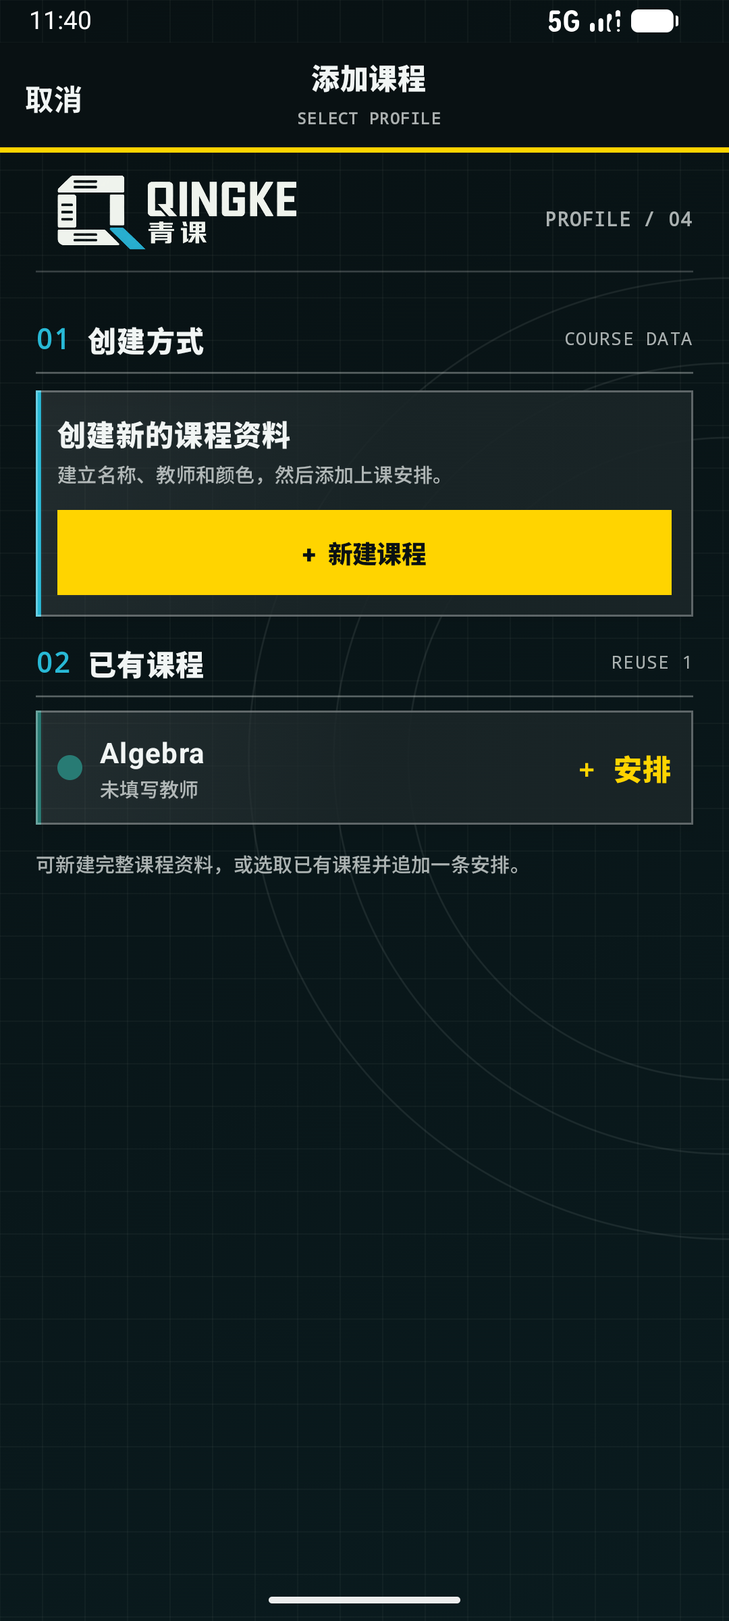
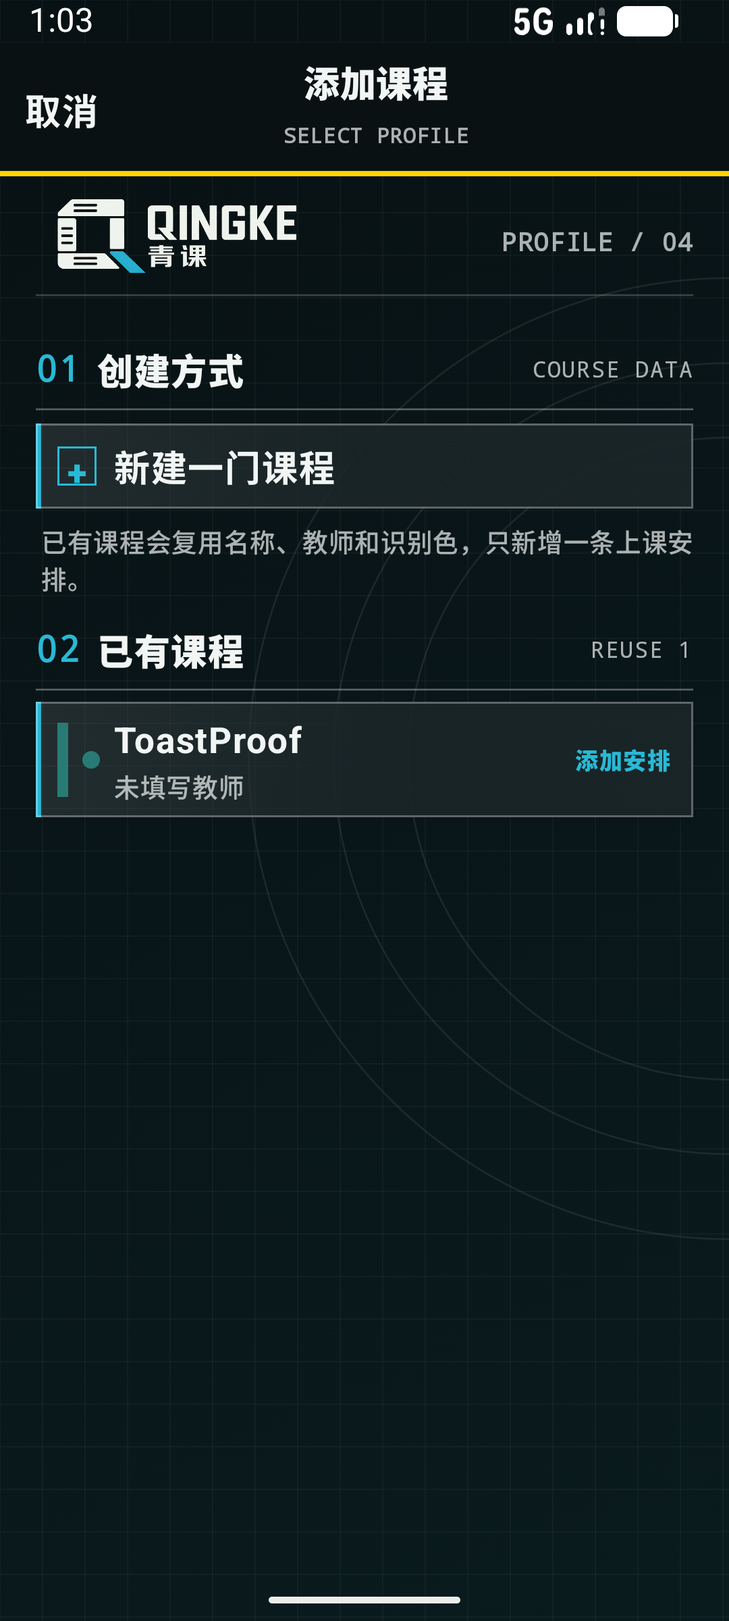
fix(android): align course editor visuals

diff --git a/Android/app/src/main/java/com/qingke/schedule/ui/QingKeApp.kt b/Android/app/src/main/java/com/qingke/schedule/ui/QingKeApp.kt
@@ -26,6 +26,7 @@ import androidx.compose.foundation.layout.padding
 import androidx.compose.foundation.layout.statusBarsPadding
 import androidx.compose.foundation.layout.width
 import androidx.compose.foundation.layout.widthIn
+import androidx.compose.foundation.layout.wrapContentSize
 import androidx.compose.foundation.layout.size
 import androidx.compose.foundation.lazy.LazyColumn
 import androidx.compose.foundation.lazy.items
@@ -233,22 +234,18 @@ fun QingKeAppContent(
             LoadStatus.NOT_LOADED, LoadStatus.LOADING -> LoadingScreen()
             LoadStatus.FAILED -> LoadErrorScreen(state.error.orEmpty(), actions.retryLoad)
             LoadStatus.READY -> if (state.needsOnboarding) form?.let { OnboardingScreen(it, state.isSaving, actions) } ?: LoadingScreen()
-            else MainShell(state, selectedTab, currentTime, actions)
+            else MainShell(state, selectedTab, currentTime, actions, courseSuccess = if (editor == null) courseSuccess else null, consumeCourseSuccess = consumeCourseSuccess)
         }
         editor?.let { CourseEditorOverlay(it, state.data.semester, state.data.courses, dark, actions) }
-        if (editor == null) courseSuccess?.let { CourseSuccessNotice(it, dark, consumeCourseSuccess) }
         state.error?.let { message -> if (state.loadStatus == LoadStatus.READY) ErrorDialog(message, actions.dismissError) }
     }
 }
 
 @Composable private fun CourseSuccessNotice(message: String, dark: Boolean, consume: () -> Unit) {
     LaunchedEffect(message) { delay(2_600); consume() }
-    // Keep the non-blocking notice above both the terminal tab bar and TODAY's floating ADD.
-    Box(Modifier.fillMaxSize().padding(start = 20.dp, end = 20.dp, top = 104.dp, bottom = 180.dp), contentAlignment = Alignment.BottomCenter) {
-        Row(Modifier.fillMaxWidth().terminalPanel(dark, QingKeCyan).padding(12.dp).testTag("course-success-notice")) {
-            Text("OK", color = QingKeCyan, fontFamily = FontFamily.Monospace, fontWeight = FontWeight.Black)
-            Spacer(Modifier.width(10.dp)); Text(message, color = terminalText(dark), fontWeight = FontWeight.Bold)
-        }
+    Row(Modifier.fillMaxWidth().terminalPanel(dark, QingKeCyan).padding(12.dp).testTag("course-success-notice")) {
+        Text("OK", color = QingKeCyan, fontFamily = FontFamily.Monospace, fontWeight = FontWeight.Black)
+        Spacer(Modifier.width(10.dp)); Text(message, color = terminalText(dark), fontWeight = FontWeight.Bold)
     }
 }
 
@@ -324,17 +321,28 @@ fun QingKeAppContent(
     }
 }
 
-@Composable private fun MainShell(state: ScheduleState, selected: MainTab, currentTime: LocalDateTime, actions: QingKeAppActions) {
+@Composable private fun MainShell(state: ScheduleState, selected: MainTab, currentTime: LocalDateTime, actions: QingKeAppActions, courseSuccess: String? = null, consumeCourseSuccess: () -> Unit = {}) {
     val dark = state.preferences.appearanceMode == AppearanceMode.DARK ||
         (state.preferences.appearanceMode == AppearanceMode.SYSTEM && isSystemInDarkTheme())
     Box(Modifier.fillMaxSize().testTag("main-shell")) {
         TerminalBackdrop(dark)
         when (selected) {
-            MainTab.TODAY -> TodayScheduleScreen(state, currentTime, actions.refreshTime, actions.openAddCourse, actions.openCourseAt, dark, Modifier.fillMaxSize().padding(bottom = 82.dp))
+            MainTab.TODAY -> TodayScheduleScreen(state, currentTime, actions.refreshTime, actions.openCourseAt, dark, Modifier.fillMaxSize().padding(bottom = 82.dp))
             MainTab.SCHEDULE -> ShellPlaceholder("课表（壳层）", dark, Modifier.fillMaxSize().padding(bottom = 82.dp))
             MainTab.SETTINGS -> ShellPlaceholder("设置（壳层）", dark, Modifier.fillMaxSize().padding(bottom = 82.dp))
         }
-        TerminalTabBar(selected, actions.selectTab, dark, Modifier.align(Alignment.BottomCenter))
+        Column(Modifier.align(Alignment.BottomCenter).fillMaxWidth()) {
+            if (selected == MainTab.TODAY) {
+                Box(Modifier.fillMaxWidth().padding(horizontal = 20.dp), contentAlignment = Alignment.CenterEnd) {
+                    TodayAddButton(actions.openAddCourse)
+                }
+                Spacer(Modifier.height(8.dp))
+            }
+            courseSuccess?.let {
+                Box(Modifier.fillMaxWidth().padding(horizontal = 20.dp)) { CourseSuccessNotice(it, dark, consumeCourseSuccess) }
+            }
+            Box(Modifier.fillMaxWidth().testTag("terminal-tab-bar")) { TerminalTabBar(selected, actions.selectTab, dark) }
+        }
     }
 }
 
@@ -393,7 +401,7 @@ fun QingKeAppContent(
 ) { Text(text, color = terminalText(dark), style = MaterialTheme.typography.headlineMedium, fontWeight = FontWeight.Black) }
 
 @OptIn(ExperimentalMaterial3Api::class)
-@Composable private fun TodayScheduleScreen(state: ScheduleState, now: LocalDateTime, refresh: () -> Unit, addCourse: () -> Unit, openCourseAt: (Int) -> Unit, dark: Boolean, modifier: Modifier = Modifier) {
+@Composable private fun TodayScheduleScreen(state: ScheduleState, now: LocalDateTime, refresh: () -> Unit, openCourseAt: (Int) -> Unit, dark: Boolean, modifier: Modifier = Modifier) {
     val semester = state.data.semester ?: return
     val presentation = TodaySchedulePresentation.create(semester, state.data.courses, now, state.preferences.academicCalendar)
     var refreshing by remember { mutableStateOf(false) }
@@ -429,9 +437,10 @@ fun QingKeAppContent(
             }
             }
         }
-        Button(addCourse, Modifier.align(Alignment.BottomEnd).padding(20.dp).size(54.dp).drawBehind { val inset = 3.dp.toPx(); val fold = 12.dp.toPx(); drawRect(InverseSurface.copy(alpha = .78f), topLeft = androidx.compose.ui.geometry.Offset(inset, inset), size = androidx.compose.ui.geometry.Size(size.width - inset * 2, size.height - inset * 2), style = Stroke(1.dp.toPx())); val path = androidx.compose.ui.graphics.Path().apply { moveTo(size.width - inset - fold, inset); lineTo(size.width - inset, inset); lineTo(size.width - inset, inset + fold); close() }; drawPath(path, InverseSurface.copy(alpha = .86f)); drawLine(InverseSurface.copy(alpha = .78f), androidx.compose.ui.geometry.Offset(size.width - inset - fold, inset), androidx.compose.ui.geometry.Offset(size.width - inset, inset + fold), 1.dp.toPx()) }.testTag("today-add-course"), shape = TerminalShape, contentPadding = androidx.compose.foundation.layout.PaddingValues(0.dp), colors = ButtonDefaults.buttonColors(containerColor = SignalYellow, contentColor = InverseSurface)) { Column(horizontalAlignment = Alignment.CenterHorizontally) { Text("+", fontSize = 20.sp, lineHeight = 19.sp, fontWeight = FontWeight.Black); Text("ADD", fontFamily = FontFamily.Monospace, fontSize = 10.sp, fontWeight = FontWeight.Black) } }
     }
 }
+
+@Composable private fun TodayAddButton(addCourse: () -> Unit) = Button(addCourse, Modifier.size(54.dp).drawBehind { val inset = 3.dp.toPx(); val fold = 12.dp.toPx(); drawRect(InverseSurface.copy(alpha = .78f), topLeft = androidx.compose.ui.geometry.Offset(inset, inset), size = androidx.compose.ui.geometry.Size(size.width - inset * 2, size.height - inset * 2), style = Stroke(1.dp.toPx())); val path = androidx.compose.ui.graphics.Path().apply { moveTo(size.width - inset - fold, inset); lineTo(size.width - inset, inset); lineTo(size.width - inset, inset + fold); close() }; drawPath(path, InverseSurface.copy(alpha = .86f)); drawLine(InverseSurface.copy(alpha = .78f), androidx.compose.ui.geometry.Offset(size.width - inset - fold, inset), androidx.compose.ui.geometry.Offset(size.width - inset, inset + fold), 1.dp.toPx()) }.testTag("today-add-course"), shape = TerminalShape, contentPadding = androidx.compose.foundation.layout.PaddingValues(0.dp), colors = ButtonDefaults.buttonColors(containerColor = SignalYellow, contentColor = InverseSurface)) { Column(horizontalAlignment = Alignment.CenterHorizontally) { Text("+", fontSize = 20.sp, lineHeight = 19.sp, fontWeight = FontWeight.Black); Text("ADD", fontFamily = FontFamily.Monospace, fontSize = 10.sp, fontWeight = FontWeight.Black) } }
 
 @Composable private fun BrandHeader(dark: Boolean, code: String = "LOCAL / 01", tag: String = "today-brand-header") = Row(
     Modifier.fillMaxWidth().padding(horizontal = 20.dp).padding(top = 8.dp, bottom = 12.dp).border(width = 0.dp, color = Color.Transparent)
@@ -518,12 +527,25 @@ private fun courseDetails(occurrence: CourseOccurrence): String = listOf(
                 BrandHeader(dark, "PROFILE / 04", "course-choice-brand-header")
                 Column(Modifier.weight(1f).padding(horizontal = 20.dp).verticalScroll(rememberScrollState())) {
                 TerminalSectionHeader("01", "创建方式", "COURSE DATA", dark, "course-choice-create-section")
-                Column(Modifier.fillMaxWidth().padding(top = 10.dp).terminalPanel(dark, QingKeCyan).padding(12.dp).testTag("course-choice-create-panel")) { Text("创建新的课程资料", color = terminalText(dark), fontWeight = FontWeight.Black); Text("建立名称、教师和颜色，然后添加上课安排。", color = terminalSecondary(dark), style = MaterialTheme.typography.labelSmall, modifier = Modifier.padding(top = 3.dp)); Button(actions.openNewCourse, Modifier.fillMaxWidth().padding(top = 12.dp).heightIn(min = 48.dp).testTag("course-create-new"), shape = TerminalShape, colors = ButtonDefaults.buttonColors(containerColor = SignalYellow, contentColor = InverseSurface)) { Text("+  新建课程", fontWeight = FontWeight.Black) } }
+                Column(Modifier.fillMaxWidth().padding(top = 8.dp)) {
+                    Box(Modifier.fillMaxWidth().terminalPanel(dark, QingKeCyan).clickable { actions.openNewCourse() }.testTag("course-create-new").semantics { contentDescription = "新建一门课程" }) {
+                        Row(Modifier.fillMaxWidth().heightIn(min = 48.dp).padding(horizontal = 12.dp).testTag("course-choice-create-panel"), verticalAlignment = Alignment.CenterVertically) {
+                            Box(Modifier.size(22.dp).border(1.dp, QingKeCyan, TerminalShape), contentAlignment = Alignment.Center) { Text("+", color = QingKeCyan, fontWeight = FontWeight.Black) }
+                            Text("新建一门课程", color = terminalText(dark), fontWeight = FontWeight.Bold, modifier = Modifier.padding(start = 10.dp))
+                        }
+                    }
+                    Text("已有课程会复用名称、教师和识别色，只新增一条上课安排。", color = terminalSecondary(dark), style = MaterialTheme.typography.labelSmall, modifier = Modifier.padding(start = 3.dp, top = 8.dp).testTag("course-choice-footer"))
+                }
                 TerminalSectionHeader("02", "已有课程", "REUSE ${courses.size}", dark, "course-choice-reuse-section")
                 courses.withIndex().sortedWith(compareBy<IndexedValue<com.qingke.schedule.domain.Course>> { it.value.name.trim() }.thenBy { it.index }).forEach { entry ->
-                    Row(Modifier.fillMaxWidth().padding(top = 8.dp).terminalPanel(dark, courseColor(entry.value.color)).clickable { actions.appendCourseAt(entry.index) }.padding(12.dp).testTag("course-append-${entry.index}").semantics { contentDescription = "${entry.value.name}，追加安排，来源 ${entry.index + 1}" }, verticalAlignment = Alignment.CenterVertically) { Box(Modifier.size(14.dp).background(courseColor(entry.value.color), androidx.compose.foundation.shape.CircleShape)); Column(Modifier.weight(1f).padding(start = 10.dp)) { Text(entry.value.name.ifBlank { "未命名课程" }, color = terminalText(dark), fontWeight = FontWeight.Bold); Text(entry.value.teacher.ifBlank { "未填写教师" }, color = terminalSecondary(dark), style = MaterialTheme.typography.labelSmall) }; Text("+ 安排", color = SignalYellow, fontFamily = FontFamily.Monospace, fontWeight = FontWeight.Black) }
+                    Row(Modifier.fillMaxWidth().padding(top = 7.dp).heightIn(min = 48.dp).terminalPanel(dark, QingKeCyan).clickable { actions.appendCourseAt(entry.index) }.padding(horizontal = 12.dp, vertical = 7.dp).testTag("course-append-${entry.index}").semantics { contentDescription = "为 ${entry.value.name} 添加上课安排，来源 ${entry.index + 1}" }, verticalAlignment = Alignment.CenterVertically) {
+                        Box(Modifier.width(6.dp).height(42.dp).background(courseColor(entry.value.color), TerminalShape).testTag("course-append-rail-${entry.index}"))
+                        Box(Modifier.padding(start = 8.dp).size(10.dp).background(courseColor(entry.value.color), androidx.compose.foundation.shape.CircleShape))
+                        Column(Modifier.weight(1f).padding(start = 8.dp)) { Text(entry.value.name.ifBlank { "未命名课程" }, color = terminalText(dark), fontWeight = FontWeight.Bold); Text(entry.value.teacher.ifBlank { "未填写教师" }, color = terminalSecondary(dark), style = MaterialTheme.typography.labelSmall) }
+                        Text("添加安排", color = QingKeCyan, fontFamily = FontFamily.Monospace, fontSize = 10.sp, fontWeight = FontWeight.Black)
+                    }
                 }
-                Text("可新建完整课程资料，或选取已有课程并追加一条安排。", color = terminalSecondary(dark), style = MaterialTheme.typography.labelSmall, modifier = Modifier.padding(vertical = 14.dp).testTag("course-choice-footer"))
+                Spacer(Modifier.height(14.dp))
                 }
             }
         } else {
@@ -533,18 +555,18 @@ private fun courseDetails(occurrence: CourseOccurrence): String = listOf(
                 EditorHeader(if (editor.isAppend) "添加上课安排" else if (editor.mode == CourseEditorMode.EDIT) "编辑课程" else "添加课程", if (editor.isAppend) "NEW SCHEDULE" else if (editor.mode == CourseEditorMode.EDIT) "COURSE PROFILE" else "NEW COURSE", actions.closeCourseEditor, actions.saveCourse, editor.isInFlight, dark)
                 BrandHeader(dark, "${if (editor.isAppend) "APPEND" else if (editor.mode == CourseEditorMode.EDIT) "EDIT" else "CREATE"} / 04", "course-editor-brand-header")
                 Column(Modifier.weight(1f).verticalScroll(rememberScrollState()).padding(horizontal = 20.dp)) {
-                TerminalSectionHeader("01", if (editor.isAppend) "沿用课程资料" else "课程资料", if (editor.isAppend) "REUSED PROFILE" else "COURSE PROFILE", dark, "course-info-section")
+                TerminalSectionHeader("01", if (editor.isAppend) "沿用课程资料" else "课程信息", if (editor.isAppend) "REUSED PROFILE" else "COURSE PROFILE", dark, "course-info-section")
                 if (editor.isAppend) {
-                    Column(Modifier.fillMaxWidth().padding(top = 12.dp).terminalPanel(dark, QingKeCyan).padding(12.dp).testTag("course-append-readonly")) {
-                        Text("复用课程资料", color = terminalText(dark), fontWeight = FontWeight.Black)
-                        Text(editor.name, color = terminalText(dark), style = MaterialTheme.typography.titleMedium, modifier = Modifier.testTag("course-append-name"))
-                        if (editor.teacher.isNotBlank()) Text(editor.teacher, color = terminalSecondary(dark), modifier = Modifier.testTag("course-append-teacher"))
-                        Row(verticalAlignment = Alignment.CenterVertically) { Box(Modifier.size(16.dp).background(courseColor(editor.color), TerminalShape)); Spacer(Modifier.width(8.dp)); Text(editor.color, color = terminalSecondary(dark), fontFamily = FontFamily.Monospace) }
-                        Text("课程名称、教师和识别色沿用已有课程；这里只新增上课安排。", color = terminalSecondary(dark), style = MaterialTheme.typography.labelSmall, modifier = Modifier.padding(top = 10.dp).testTag("course-append-footer"))
+                    Column(Modifier.fillMaxWidth().padding(top = 8.dp)) {
+                        Row(Modifier.fillMaxWidth().terminalPanel(dark, QingKeCyan).padding(horizontal = 12.dp, vertical = 8.dp).testTag("course-append-readonly"), verticalAlignment = Alignment.CenterVertically) {
+                            Box(Modifier.width(6.dp).height(42.dp).background(courseColor(editor.color), TerminalShape))
+                            Column(Modifier.weight(1f).padding(start = 10.dp)) { Text(editor.name, color = terminalText(dark), style = MaterialTheme.typography.titleMedium, modifier = Modifier.testTag("course-append-name")); Text(editor.teacher.ifBlank { "未填写教师" }, color = terminalSecondary(dark), style = MaterialTheme.typography.labelSmall, modifier = Modifier.testTag("course-append-teacher")) }
+                        }
+                        Text("课程名称、教师和识别色沿用已有课程；这里只新增上课安排。", color = terminalSecondary(dark), style = MaterialTheme.typography.labelSmall, modifier = Modifier.padding(start = 3.dp, top = 8.dp).testTag("course-append-footer"))
                     }
                 } else {
                     Column(Modifier.fillMaxWidth().padding(top = 10.dp).terminalPanel(dark, QingKeCyan).padding(12.dp).testTag("course-info-form-section")) {
-                    PlainEditorTextField("课程名称", editor.name, actions.updateCourseName, "course-name", !editor.isInFlight, dark); Box(Modifier.fillMaxWidth().height(1.dp).background(terminalBorder(dark))); PlainEditorTextField("教师（可选）", editor.teacher, actions.updateCourseTeacher, "course-teacher", !editor.isInFlight, dark); Box(Modifier.fillMaxWidth().height(1.dp).background(terminalBorder(dark)))
+                    PlainEditorTextField("课程名称", editor.name, actions.updateCourseName, "course-name", !editor.isInFlight, dark); Box(Modifier.fillMaxWidth().height(1.dp).background(terminalBorder(dark))); PlainEditorTextField("教师（选填）", editor.teacher, actions.updateCourseTeacher, "course-teacher", !editor.isInFlight, dark); Box(Modifier.fillMaxWidth().height(1.dp).background(terminalBorder(dark)))
                     Text("课程颜色", Modifier.padding(top = 12.dp), color = terminalText(dark), fontWeight = FontWeight.Bold)
                     Row(Modifier.fillMaxWidth(), horizontalArrangement = Arrangement.spacedBy(6.dp)) {
                         listOf("#287B74", "#D96952", "#536FAF", "#9A6AAF", "#B87928", "#46835A").forEach { color ->
@@ -552,12 +574,13 @@ private fun courseDetails(occurrence: CourseOccurrence): String = listOf(
                             Box(Modifier.weight(1f).height(38.dp).background(Color.Transparent).clickable(enabled = !editor.isInFlight) { actions.updateCourseColor(color) }.semantics { contentDescription = "预设颜色 $color，${if (selected) "已选中" else "未选中"}" }.testTag("course-color-$color"), contentAlignment = Alignment.Center) { Box(Modifier.size(27.dp).background(courseColor(color), androidx.compose.foundation.shape.CircleShape).border(if (selected) 3.dp else 1.dp, if (selected) SignalYellow else Color.White.copy(alpha = .65f), androidx.compose.foundation.shape.CircleShape).testTag("course-color-swatch-$color"), contentAlignment = Alignment.Center) { if (selected) Text("✓", color = Color.White, fontWeight = FontWeight.Black, fontSize = 14.sp) } }
                         }
                     }
-                    OutlinedButton(actions.showColorDialog, Modifier.fillMaxWidth().padding(top = 8.dp).heightIn(min = 48.dp).testTag("course-custom-color"), enabled = !editor.isInFlight, shape = TerminalShape) { Text("自定义颜色") }
-                    Text("当前色值  ${editor.color}", color = terminalSecondary(dark), fontFamily = FontFamily.Monospace, modifier = Modifier.padding(top = 8.dp).testTag("course-current-color"))
+                    Row(Modifier.fillMaxWidth().heightIn(min = 48.dp).clickable(enabled = !editor.isInFlight, onClick = actions.showColorDialog).testTag("course-custom-color").semantics { contentDescription = "自定义颜色，当前 ${editor.color}" }, verticalAlignment = Alignment.CenterVertically) { Text("自定义颜色", color = terminalText(dark), fontWeight = FontWeight.Bold, modifier = Modifier.weight(1f)); Box(Modifier.size(22.dp).background(courseColor(editor.color), androidx.compose.foundation.shape.CircleShape).border(1.dp, terminalBorder(dark), androidx.compose.foundation.shape.CircleShape).testTag("course-custom-color-swatch")); Text("›", color = QingKeCyan, fontSize = 20.sp, modifier = Modifier.padding(start = 9.dp)) }
+                    Text("当前色值  ${editor.color.uppercase()}", color = terminalSecondary(dark), fontFamily = FontFamily.Monospace, fontSize = 10.sp, modifier = Modifier.padding(top = 2.dp).testTag("course-current-color"))
                     }
                 }
                 editor.visibleSchedules.forEachIndexed { visibleIndex, schedule ->
-                    TerminalSectionHeader("%02d".format(visibleIndex + 2), "上课安排 ${visibleIndex + 1}", "SCHEDULE", dark, "course-schedule-header-${schedule.id}")
+                    val scheduleNumber = editor.originalScheduleCount + visibleIndex + 1
+                    TerminalSectionHeader("%02d".format(scheduleNumber + 1), "上课安排 $scheduleNumber", "SCHEDULE", dark, "course-schedule-header-${schedule.id}")
                     Column(Modifier.fillMaxWidth().padding(top = 7.dp).terminalPanel(dark, QingKeCyan).padding(12.dp).testTag("course-schedule-${schedule.id}")) {
                         CompactPicker("星期", weekdayName(schedule.dayOfWeek), schedule.dayOfWeek, 1..7, { weekdayName(it) }, { actions.updateCourseDay(schedule.id, it) }, "course-day-${schedule.id}", dark, !editor.isInFlight)
                         CompactPicker("开始节次", periodDescription(semester, schedule.startPeriod, true), schedule.startPeriod, 1..periodMaximum, { periodDescription(semester, it, true) }, { actions.updateCourseStartPeriod(schedule.id, it) }, "course-start-period-${schedule.id}", dark, !editor.isInFlight)
@@ -566,7 +589,7 @@ private fun courseDetails(occurrence: CourseOccurrence): String = listOf(
                         EditorStepper("结束周", schedule.endWeek, 1, weekMaximum, { actions.updateCourseEndWeek(schedule.id, it) }, "course-end-week-${schedule.id}", dark, !editor.isInFlight)
                         Row(Modifier.fillMaxWidth(), horizontalArrangement = Arrangement.spacedBy(6.dp)) { RepeatRule.entries.forEach { rule -> OutlinedButton({ actions.updateCourseRepeat(schedule.id, rule) }, Modifier.weight(1f).heightIn(min = 40.dp).testTag("course-repeat-${schedule.id}-${rule.name}"), enabled = !editor.isInFlight, shape = TerminalShape, colors = ButtonDefaults.outlinedButtonColors(containerColor = if (schedule.repeatRule == rule) QingKeCyan.copy(alpha = .3f) else Color.Transparent)) { Text(if (rule == RepeatRule.EVERY) "每周" else if (rule == RepeatRule.ODD) "单周" else "双周") } } }
                         OutlinedTextField(schedule.classroom, { actions.updateCourseClassroom(schedule.id, it) }, Modifier.fillMaxWidth().padding(top = 8.dp).testTag("course-classroom-${schedule.id}"), label = { Text("教室（可选）") }, singleLine = true, enabled = !editor.isInFlight, shape = TerminalShape)
-                        if (editor.visibleSchedules.size > 1) OutlinedButton({ actions.removeCourseSchedule(schedule.id) }, Modifier.fillMaxWidth().padding(top = 8.dp).heightIn(min = 44.dp).testTag("course-remove-schedule-${schedule.id}"), enabled = !editor.isInFlight, shape = TerminalShape) { Text("删除此安排") }
+                        if (editor.schedules.size > 1) OutlinedButton({ actions.removeCourseSchedule(schedule.id) }, Modifier.fillMaxWidth().padding(top = 8.dp).heightIn(min = 48.dp).testTag("course-remove-schedule-${schedule.id}"), enabled = !editor.isInFlight, shape = TerminalShape) { Text("删除这个安排", color = Danger) }
                     }
                 }
                 Button(actions.addCourseSchedule, Modifier.fillMaxWidth().padding(top = 12.dp).heightIn(min = 48.dp).testTag("course-add-schedule"), shape = TerminalShape, enabled = !editor.isInFlight, colors = ButtonDefaults.buttonColors(containerColor = SignalYellow, contentColor = InverseSurface)) { Text("+  添加上课安排", fontWeight = FontWeight.Black) }
@@ -592,23 +615,37 @@ private fun courseDetails(occurrence: CourseOccurrence): String = listOf(
     if (save != null) Text(if (saving) "保存中" else "保存", color = SignalYellow, fontWeight = FontWeight.Black, modifier = Modifier.clickable(enabled = !saving, onClick = save).padding(vertical = 12.dp).testTag("course-save-toolbar")) else Spacer(Modifier.width(28.dp))
 }
 
-@Composable private fun TerminalSectionHeader(number: String, title: String, subtitle: String, dark: Boolean, tag: String) = Row(Modifier.fillMaxWidth().padding(top = 14.dp).drawBehind { drawLine(terminalBorder(dark), androidx.compose.ui.geometry.Offset(0f, size.height), androidx.compose.ui.geometry.Offset(size.width, size.height), 1.dp.toPx()) }.padding(bottom = 7.dp).testTag(tag), verticalAlignment = Alignment.CenterVertically) { Text(number, color = QingKeCyan, fontFamily = FontFamily.Monospace, fontWeight = FontWeight.Black); Spacer(Modifier.width(9.dp)); Text(title, color = terminalText(dark), fontWeight = FontWeight.Black); Spacer(Modifier.weight(1f)); Text(subtitle, color = terminalSecondary(dark), fontFamily = FontFamily.Monospace, fontSize = 10.sp) }
+@Composable private fun TerminalSectionHeader(number: String, title: String, subtitle: String, dark: Boolean, tag: String) = Row(Modifier.fillMaxWidth().padding(top = 14.dp).drawBehind { drawLine(terminalBorder(dark), androidx.compose.ui.geometry.Offset(0f, size.height), androidx.compose.ui.geometry.Offset(size.width, size.height), 1.dp.toPx()) }.padding(bottom = 7.dp).testTag(tag), verticalAlignment = Alignment.CenterVertically) { Text(number, color = QingKeCyan, fontFamily = FontFamily.Monospace, fontWeight = FontWeight.Black, modifier = Modifier.testTag("$tag-number")); Spacer(Modifier.width(9.dp)); Text(title, color = terminalText(dark), fontWeight = FontWeight.Black); Spacer(Modifier.weight(1f)); Text(subtitle, color = terminalSecondary(dark), fontFamily = FontFamily.Monospace, fontSize = 10.sp) }
 
-@Composable private fun PlainEditorTextField(label: String, value: String, update: (String) -> Unit, tag: String, enabled: Boolean, dark: Boolean) = Row(Modifier.fillMaxWidth().heightIn(min = 48.dp), verticalAlignment = Alignment.CenterVertically) {
-    Text(label, color = terminalSecondary(dark), modifier = Modifier.width(92.dp), style = MaterialTheme.typography.labelMedium)
-    BasicTextField(value, update, Modifier.weight(1f).testTag(tag), enabled = enabled, singleLine = true, textStyle = androidx.compose.ui.text.TextStyle(color = terminalText(dark), fontWeight = FontWeight.Bold))
-}
+@Composable private fun PlainEditorTextField(label: String, value: String, update: (String) -> Unit, tag: String, enabled: Boolean, dark: Boolean) = BasicTextField(
+    value = value,
+    onValueChange = update,
+    modifier = Modifier.fillMaxWidth().heightIn(min = 48.dp).testTag(tag),
+    enabled = enabled,
+    singleLine = true,
+    textStyle = androidx.compose.ui.text.TextStyle(color = terminalText(dark), fontWeight = FontWeight.Bold),
+    decorationBox = { innerTextField ->
+        Box(Modifier.fillMaxSize(), contentAlignment = Alignment.CenterStart) {
+            if (value.isBlank()) Text(label, color = terminalSecondary(dark), style = MaterialTheme.typography.labelMedium, maxLines = 1, overflow = androidx.compose.ui.text.style.TextOverflow.Ellipsis, modifier = Modifier.testTag("$tag-placeholder"))
+            innerTextField()
+        }
+    },
+)
 
-@Composable private fun EditorStepper(label: String, value: Int, minimum: Int, maximum: Int, update: (Int) -> Unit, tag: String, dark: Boolean, enabled: Boolean) = Row(Modifier.fillMaxWidth().padding(top = 6.dp), verticalAlignment = Alignment.CenterVertically) {
+@Composable private fun EditorStepper(label: String, value: Int, minimum: Int, maximum: Int, update: (Int) -> Unit, tag: String, dark: Boolean, enabled: Boolean) = Row(Modifier.fillMaxWidth().heightIn(min = 48.dp), verticalAlignment = Alignment.CenterVertically) {
     Text("$label：$value", Modifier.weight(1f), color = terminalText(dark))
-    OutlinedButton({ update((value - 1).coerceAtLeast(minimum)) }, Modifier.heightIn(min = 40.dp).testTag("$tag-minus"), enabled = enabled && value > minimum, shape = TerminalShape) { Text("−") }
-    OutlinedButton({ update((value + 1).coerceAtMost(maximum)) }, Modifier.padding(start = 6.dp).heightIn(min = 40.dp).testTag("$tag-plus"), enabled = enabled && value < maximum, shape = TerminalShape) { Text("+") }
+    Text("−", color = QingKeCyan, fontSize = 21.sp, fontWeight = FontWeight.Black, modifier = Modifier.size(48.dp).clickable(enabled = enabled && value > minimum) { update((value - 1).coerceAtLeast(minimum)) }.testTag("$tag-minus").wrapContentSize(Alignment.Center))
+    Text("+", color = QingKeCyan, fontSize = 20.sp, fontWeight = FontWeight.Black, modifier = Modifier.size(48.dp).clickable(enabled = enabled && value < maximum) { update((value + 1).coerceAtMost(maximum)) }.testTag("$tag-plus").wrapContentSize(Alignment.Center))
 }
 
-@Composable private fun CompactPicker(label: String, valueLabel: String, value: Int, choices: IntRange, choiceLabel: (Int) -> String, update: (Int) -> Unit, tag: String, dark: Boolean, enabled: Boolean) = Row(Modifier.fillMaxWidth().padding(top = 7.dp), verticalAlignment = Alignment.CenterVertically) {
+@Composable private fun CompactPicker(label: String, valueLabel: String, value: Int, choices: IntRange, choiceLabel: (Int) -> String, update: (Int) -> Unit, tag: String, dark: Boolean, enabled: Boolean) = Box(Modifier.fillMaxWidth()) {
     var expanded by remember { mutableStateOf(false) }
-    Text(label, color = terminalText(dark), fontWeight = FontWeight.Bold, modifier = Modifier.weight(1f))
-    Box { OutlinedButton({ expanded = true }, Modifier.heightIn(min = 38.dp).testTag(tag), enabled = enabled, shape = TerminalShape) { Text(valueLabel, fontFamily = FontFamily.Monospace, fontSize = 11.sp); Spacer(Modifier.width(7.dp)); Text("⌄", fontWeight = FontWeight.Black) }; DropdownMenu(expanded, { expanded = false }, modifier = Modifier.testTag("$tag-menu"), shape = TerminalShape) { choices.forEach { choice -> DropdownMenuItem({ Text(choiceLabel(choice)) }, { update(choice); expanded = false }, modifier = Modifier.testTag("$tag-option-$choice")) } } }
+    Row(Modifier.fillMaxWidth().heightIn(min = 48.dp).clickable(enabled = enabled) { expanded = true }.testTag(tag).semantics { contentDescription = "$label：$valueLabel" }, verticalAlignment = Alignment.CenterVertically) {
+        Text(valueLabel, color = QingKeCyan, fontFamily = FontFamily.Monospace, fontSize = 11.sp, fontWeight = FontWeight.Bold, modifier = Modifier.weight(1f).testTag("$tag-value"))
+        Text("⌄", color = QingKeCyan, fontWeight = FontWeight.Black, modifier = Modifier.padding(start = 7.dp))
+    }
+    Box(Modifier.align(Alignment.BottomCenter).fillMaxWidth().height(1.dp).background(terminalBorder(dark)))
+    DropdownMenu(expanded, { expanded = false }, modifier = Modifier.testTag("$tag-menu"), shape = TerminalShape) { choices.forEach { choice -> DropdownMenuItem({ Text(choiceLabel(choice)) }, { update(choice); expanded = false }, modifier = Modifier.testTag("$tag-option-$choice")) } }
 }
 
 @Composable private fun CourseColorDialog(editor: CourseEditorState, dark: Boolean, actions: QingKeAppActions) {
@@ -631,7 +668,7 @@ private fun courseDetails(occurrence: CourseOccurrence): String = listOf(
 private fun weekdayName(value: Int) = listOf("星期一", "星期二", "星期三", "星期四", "星期五", "星期六", "星期日").getOrElse(value - 1) { "星期" }
 private fun periodDescription(semester: com.qingke.schedule.domain.Semester?, number: Int, start: Boolean): String {
     val period = semester?.periods?.firstOrNull { it.number == number }
-    return "第 $number 节${period?.let { "（${if (start) it.startTime else it.endTime}）" } ?: ""}"
+    return "第 $number 节${period?.let { " · ${if (start) it.startTime else it.endTime}" } ?: ""}"
 }
 
 @Composable private fun EditorDialog(title: String, message: String, confirm: String, onConfirm: () -> Unit, onDismiss: () -> Unit, tag: String, dark: Boolean) = TerminalDialog(

diff --git a/Android/app/src/androidTest/java/com/qingke/schedule/ui/QingKeAppTest.kt b/Android/app/src/androidTest/java/com/qingke/schedule/ui/QingKeAppTest.kt
@@ -177,10 +177,69 @@ class QingKeAppTest {
         var selectedDay = 1
         rule.setContent { QingKeAppContent(readyToday(), null, MainTab.TODAY, QingKeAppActions(updateCourseDay = { _, value -> selectedDay = value }), editor = CourseEditorState(CourseEditorMode.CREATE, schedules = listOf(schedule))) }
         rule.onNodeWithTag("course-schedule-header-picker").performScrollTo()
+        rule.onNodeWithTag("course-day-picker-value", useUnmergedTree = true).assertTextContains("星期一")
+        rule.onNodeWithTag("course-start-period-picker-value", useUnmergedTree = true).assertTextContains("第 1 节 · 08:00")
+        rule.onNodeWithTag("course-end-period-picker-value", useUnmergedTree = true).assertTextContains("第 1 节 · 08:45")
         rule.onNodeWithTag("course-day-picker").performClick()
         rule.onNodeWithTag("course-day-picker-menu").assertIsDisplayed()
         rule.onNodeWithTag("course-day-picker-option-6").performClick()
         assertEquals(6, selectedDay)
+    }
+
+    @Test fun chooserProfileAndClosedPickersUseCompactIosAlignedStructureAcrossFontScales() {
+        val schedule = CourseScheduleFormState("compact", 1, 1, 1, 1, 18, RepeatRule.EVERY, "")
+        var editor by mutableStateOf<CourseEditorState?>(CourseEditorState(CourseEditorMode.CHOOSER))
+        var fontScale by mutableStateOf(1f)
+        rule.setContent {
+            CompositionLocalProvider(LocalDensity provides Density(rule.density.density, fontScale)) {
+                QingKeAppContent(readyToday(), null, MainTab.TODAY, QingKeAppActions(openNewCourse = { editor = CourseEditorState(CourseEditorMode.CREATE, color = "#287B74", schedules = listOf(schedule)) }, showColorDialog = { editor = editor?.copy(isColorDialogOpen = true) }), editor = editor)
+            }
+        }
+        rule.onNodeWithTag("course-choice-create-panel", useUnmergedTree = true).assertIsDisplayed()
+        rule.onNodeWithTag("course-create-new").assertIsDisplayed()
+        assertAtLeast48Dp("course-create-new")
+        rule.onNodeWithText("新建一门课程", useUnmergedTree = true).assertIsDisplayed()
+        rule.onNodeWithText("已有课程会复用名称、教师和识别色，只新增一条上课安排。", useUnmergedTree = true).assertIsDisplayed()
+        rule.onNodeWithContentDescription("新建一门课程").performClick()
+        rule.waitForIdle()
+        assertEquals(CourseEditorMode.CREATE, editor?.mode)
+        editor = CourseEditorState(CourseEditorMode.CHOOSER)
+        rule.waitForIdle()
+        assertAtLeast48Dp("course-append-0", scroll = true)
+        rule.onNodeWithTag("course-append-rail-0", useUnmergedTree = true).performScrollTo().assertIsDisplayed()
+        editor = CourseEditorState(CourseEditorMode.CREATE, color = "#287B74", schedules = listOf(schedule))
+        rule.waitForIdle()
+        rule.onNodeWithTag("course-info-section").performScrollTo()
+        rule.onNodeWithText("课程信息", useUnmergedTree = true).assertIsDisplayed()
+        fontScale = 1.3f
+        rule.waitForIdle()
+        listOf("course-name-placeholder", "course-teacher-placeholder").forEach(::assertSingleLineFitsRoot)
+        rule.onNodeWithText("教师（选填）", useUnmergedTree = true).assertIsDisplayed()
+        assertAtLeast48Dp("course-custom-color", scroll = true)
+        rule.onNodeWithTag("course-custom-color").performScrollTo().performClick()
+        rule.onNodeWithTag("course-color-dialog").assertIsDisplayed()
+        editor = editor?.copy(isColorDialogOpen = false)
+        listOf(1f, 1.3f).forEach { scale ->
+            fontScale = scale
+            rule.waitForIdle()
+            rule.onNodeWithTag("course-schedule-header-compact").performScrollTo()
+            listOf("course-day-compact", "course-start-period-compact", "course-end-period-compact").forEach(::assertFitsRootHorizontally)
+            listOf("course-day-compact", "course-start-period-compact", "course-end-period-compact", "course-start-week-compact-minus", "course-start-week-compact-plus").forEach(::assertAtLeast48Dp)
+        }
+    }
+
+    @Test fun appendUsesOriginalScheduleOrdinalAndAllowsRemovingNewSchedule() {
+        val existing = CourseScheduleFormState("existing", 1, 1, 1, 1, 18, RepeatRule.EVERY, "")
+        val newSchedule = CourseScheduleFormState("new", 2, 2, 2, 1, 18, RepeatRule.EVERY, "")
+        var editor by mutableStateOf<CourseEditorState?>(CourseEditorState(CourseEditorMode.APPEND, name = "算法", teacher = "老师", schedules = listOf(existing, newSchedule), originalScheduleCount = 1))
+        var removedId: String? = null
+        rule.setContent { QingKeAppContent(readyToday(), null, MainTab.TODAY, QingKeAppActions(removeCourseSchedule = { id -> removedId = id; editor = editor?.copy(schedules = editor!!.schedules.filterNot { it.id == id }) }), editor = editor) }
+        rule.onNodeWithText("上课安排 2", useUnmergedTree = true).performScrollTo().assertIsDisplayed()
+        rule.onNodeWithTag("course-schedule-header-new-number", useUnmergedTree = true).assertTextContains("03")
+        rule.onNodeWithTag("course-remove-schedule-new").performScrollTo().assertIsDisplayed().assertTextContains("删除这个安排").performClick()
+        assertEquals("new", removedId)
+        assertEquals(listOf("existing"), editor!!.schedules.map { it.id })
+        rule.onAllNodesWithTag("course-remove-schedule-new").assertCountEquals(0)
     }
 
     @Test fun todayAddEmptyCourseEntryAndEndMarkersUseTerminalAffordances() {
@@ -225,15 +284,26 @@ class QingKeAppTest {
     }
 
     @Test fun successNoticeIsReadableAcrossThemesDoesNotBlockAddAndExpires() {
-        var state by mutableStateOf(readyToday()); var notice by mutableStateOf<String?>("课程添加成功"); var addCalls = 0
-        rule.setContent { QingKeAppContent(state, null, MainTab.TODAY, QingKeAppActions(openAddCourse = { addCalls++ }), LocalDateTime.parse("2026-08-31T09:00"), courseSuccess = notice, consumeCourseSuccess = { notice = null }) }
+        var state by mutableStateOf(readyToday()); var notice by mutableStateOf<String?>("课程添加成功"); var fontScale by mutableStateOf(1f); var addCalls = 0
+        rule.setContent { CompositionLocalProvider(LocalDensity provides Density(rule.density.density, fontScale)) { QingKeAppContent(state, null, MainTab.TODAY, QingKeAppActions(openAddCourse = { addCalls++ }), LocalDateTime.parse("2026-08-31T09:00"), courseSuccess = notice, consumeCourseSuccess = { notice = null }) } }
         rule.onNodeWithTag("course-success-notice").assertIsDisplayed()
-        val noticeBounds = rule.onNodeWithTag("course-success-notice", useUnmergedTree = true).fetchSemanticsNode().boundsInRoot
-        val addBounds = rule.onNodeWithTag("today-add-course", useUnmergedTree = true).fetchSemanticsNode().boundsInRoot
-        assertTrue("success notice must clear ADD: notice=$noticeBounds add=$addBounds", noticeBounds.bottom <= addBounds.top || noticeBounds.right <= addBounds.left || noticeBounds.left >= addBounds.right)
+        fun assertSuccessStack() {
+            val noticeBounds = rule.onNodeWithTag("course-success-notice", useUnmergedTree = true).fetchSemanticsNode().boundsInRoot
+            val addBounds = rule.onNodeWithTag("today-add-course", useUnmergedTree = true).fetchSemanticsNode().boundsInRoot
+            val tabBounds = rule.onNodeWithTag("terminal-tab-bar", useUnmergedTree = true).fetchSemanticsNode().boundsInRoot
+            val minimumGap = 6.dp.value * rule.density.density
+            val maximumGap = 22.dp.value * rule.density.density
+            assertTrue("success notice must be below ADD: add=$addBounds notice=$noticeBounds", addBounds.bottom <= noticeBounds.top)
+            assertTrue("success notice must be above tab bar: notice=$noticeBounds tab=$tabBounds", noticeBounds.bottom <= tabBounds.top)
+            assertTrue("ADD to notice gap must remain visible: add=$addBounds notice=$noticeBounds", noticeBounds.top - addBounds.bottom >= minimumGap)
+            assertTrue("ADD to notice gap must stay compact: add=$addBounds notice=$noticeBounds", noticeBounds.top - addBounds.bottom <= maximumGap)
+            assertTrue("notice to tab gap must stay compact: notice=$noticeBounds tab=$tabBounds", tabBounds.top - noticeBounds.bottom <= maximumGap)
+        }
+        assertSuccessStack()
         rule.onNodeWithTag("today-add-course").performClick(); assertEquals(1, addCalls)
         state = state.copy(preferences = state.preferences.copy(appearanceMode = AppearanceMode.DARK)); rule.waitForIdle()
         rule.onNodeWithTag("course-success-notice").assertIsDisplayed()
+        fontScale = 1.3f; rule.waitForIdle(); assertSuccessStack()
         rule.waitUntil(3_200) { notice == null }
         rule.onAllNodesWithTag("course-success-notice").assertCountEquals(0)
     }
@@ -583,6 +653,19 @@ class QingKeAppTest {
         val minimum = with(rule.density) { 48.dp.toPx() }
         assertTrue("$tag width=${bounds.width}", bounds.width >= minimum)
         assertTrue("$tag height=${bounds.height}", bounds.height >= minimum)
+    }
+
+    private fun assertFitsRootHorizontally(tag: String) {
+        val root = rule.onRoot().fetchSemanticsNode().boundsInRoot
+        val bounds = rule.onNodeWithTag(tag, useUnmergedTree = true).fetchSemanticsNode().boundsInRoot
+        assertTrue("$tag left=${bounds.left} root=$root", bounds.left >= root.left)
+        assertTrue("$tag right=${bounds.right} root=$root", bounds.right <= root.right)
+    }
+
+    private fun assertSingleLineFitsRoot(tag: String) {
+        assertFitsRootHorizontally(tag)
+        val bounds = rule.onNodeWithTag(tag, useUnmergedTree = true).fetchSemanticsNode().boundsInRoot
+        assertTrue("$tag height=${bounds.height}", bounds.height <= 48.dp.value * rule.density.density)
     }
 
     private fun assertEditorCloseHasVisibleLightInk(appearance: AppearanceMode, fontScale: Float) {

diff --git a/docs/Android/handoff.md b/docs/Android/handoff.md
@@ -1,5 +1,17 @@
 # 安卓项目当前交接状态
 
+## P3-04 B4 R2 已完成技术收口，待用户视觉验收（最新，2026-09-14）
+
+本轮严格限定在已授权的 TODAY、ADD chooser 与 CourseEditor 视觉对齐；未改 iOS、Web、共享协议、Room 业务规则、周课表、设置、通知、导入导出或 `main`。当前分支为 `Android`，开始基准为 `9eefec1`；交付提交只包含 `QingKeApp.kt`、`QingKeAppTest.kt`、本轮证据说明和 `docs/Android/evidence/p3-04-visual-r1/` 的 canonical 截图。没有运行中的 Gradle 或其他写入者；中转站唯一 Terra `/root/p3_03_r2_visual_fix` 为 `gpt-5.6-terra/high`，已中断并停止写入，工具不保证永久删除。
+
+- 成功提示不再以两个独立 bottom offset 叠放：`MainShell` 以共享底部栈实际测量为 `ADD → success notice → TerminalTabBar`。notice 出现时 ADD 保持可点击并上移；notice 自动 2.6 秒消失后，ADD 回到 tab bar 上方的常规位置。
+- API 37 Compose 回归使用稳定 `terminal-tab-bar` tag 严格验证垂直顺序、ADD 与 notice 的 6–22dp 间距、notice 位于 tab bar 上方、ADD 可点击、深色和 130% 字体以及 2.6 秒自动消失；不再使用任一方向不相交的宽松断言。
+- CREATE 资料字段改为全宽单行 BasicTextField placeholder；空值显示“课程名称”／“教师（选填）”，保留 48dp 高度和 divider。130% 回归验证两个 placeholder 横向不越界且为单行，修正了旧版“教师（可选）”在固定 92dp 标签列折成两行的问题。
+- 已在生产 APK 重新核对浅色/100% 成功提示：从现有 `ToastProof` 课程直接进入 EDIT 后保存，未聚焦文本输入；`uiautomator` 实测 ADD bottom `1962` < notice top `2015` < tab container top `2110`，`dumpsys input_method` 为 `mInputShown=false`。浅色 CREATE 已在最终代码上重拍并显示“教师（选填）”；深色/130%重新核对 chooser、CREATE 与 APPEND，当前可见区域无裁切/溢出；模拟器已恢复 light / `font_scale=1.0`。
+- 最终主机验证：Debug／Release JVM 各 **88 tests、0 failures、0 errors、0 skipped**；`lintDebug` **0 errors、21 warnings**；Debug、Release 和 AndroidTest APK 均构建通过。API 37 ARM64 `emulator-5554` 完整 `connectedDebugAndroidTest --rerun-tasks` 为 **58 tests、0 failures、0 errors、0 skipped**，其中 `QingKeAppTest` 31 tests 全通过。
+- 生产 Debug APK 在清数据后的真实入口完成首次学期保存、TODAY ADD→CREATE，随后 force-stop 冷启动恢复 TODAY；ADD 可见，目标 logcat 无 FATAL／ANR。Sol 已核对实际 diff、iOS 当前实现与全部 canonical 截图并完成独立技术复审。这里只能记录“已修正、已测试、已技术审查”；用户视觉验收仍未通过，必须等待用户重新查看确认，不自动开始其他页面或阶段。
+- 文档收口验证：Android 文档测试 **66 tests** 全通过，`documentation.test.sh`、`repository-layout.test.sh` 和 `git diff --check` 均通过。
+
 ## P3-04 B4 后续终端视觉返工进行中（2026-09-14）
 
 本轮在 `Android` 分支、基准 `3eff01c` 上继续用户已明确授权的 TODAY 与 ADD／CourseEditor 视觉对齐；未修改 iOS、Web、`source/`、共享协议、Room 语义、周课表、设置、通知、导入导出或 `main`。工作区只有当前唯一写入者，未创建或恢复子 Agent。
